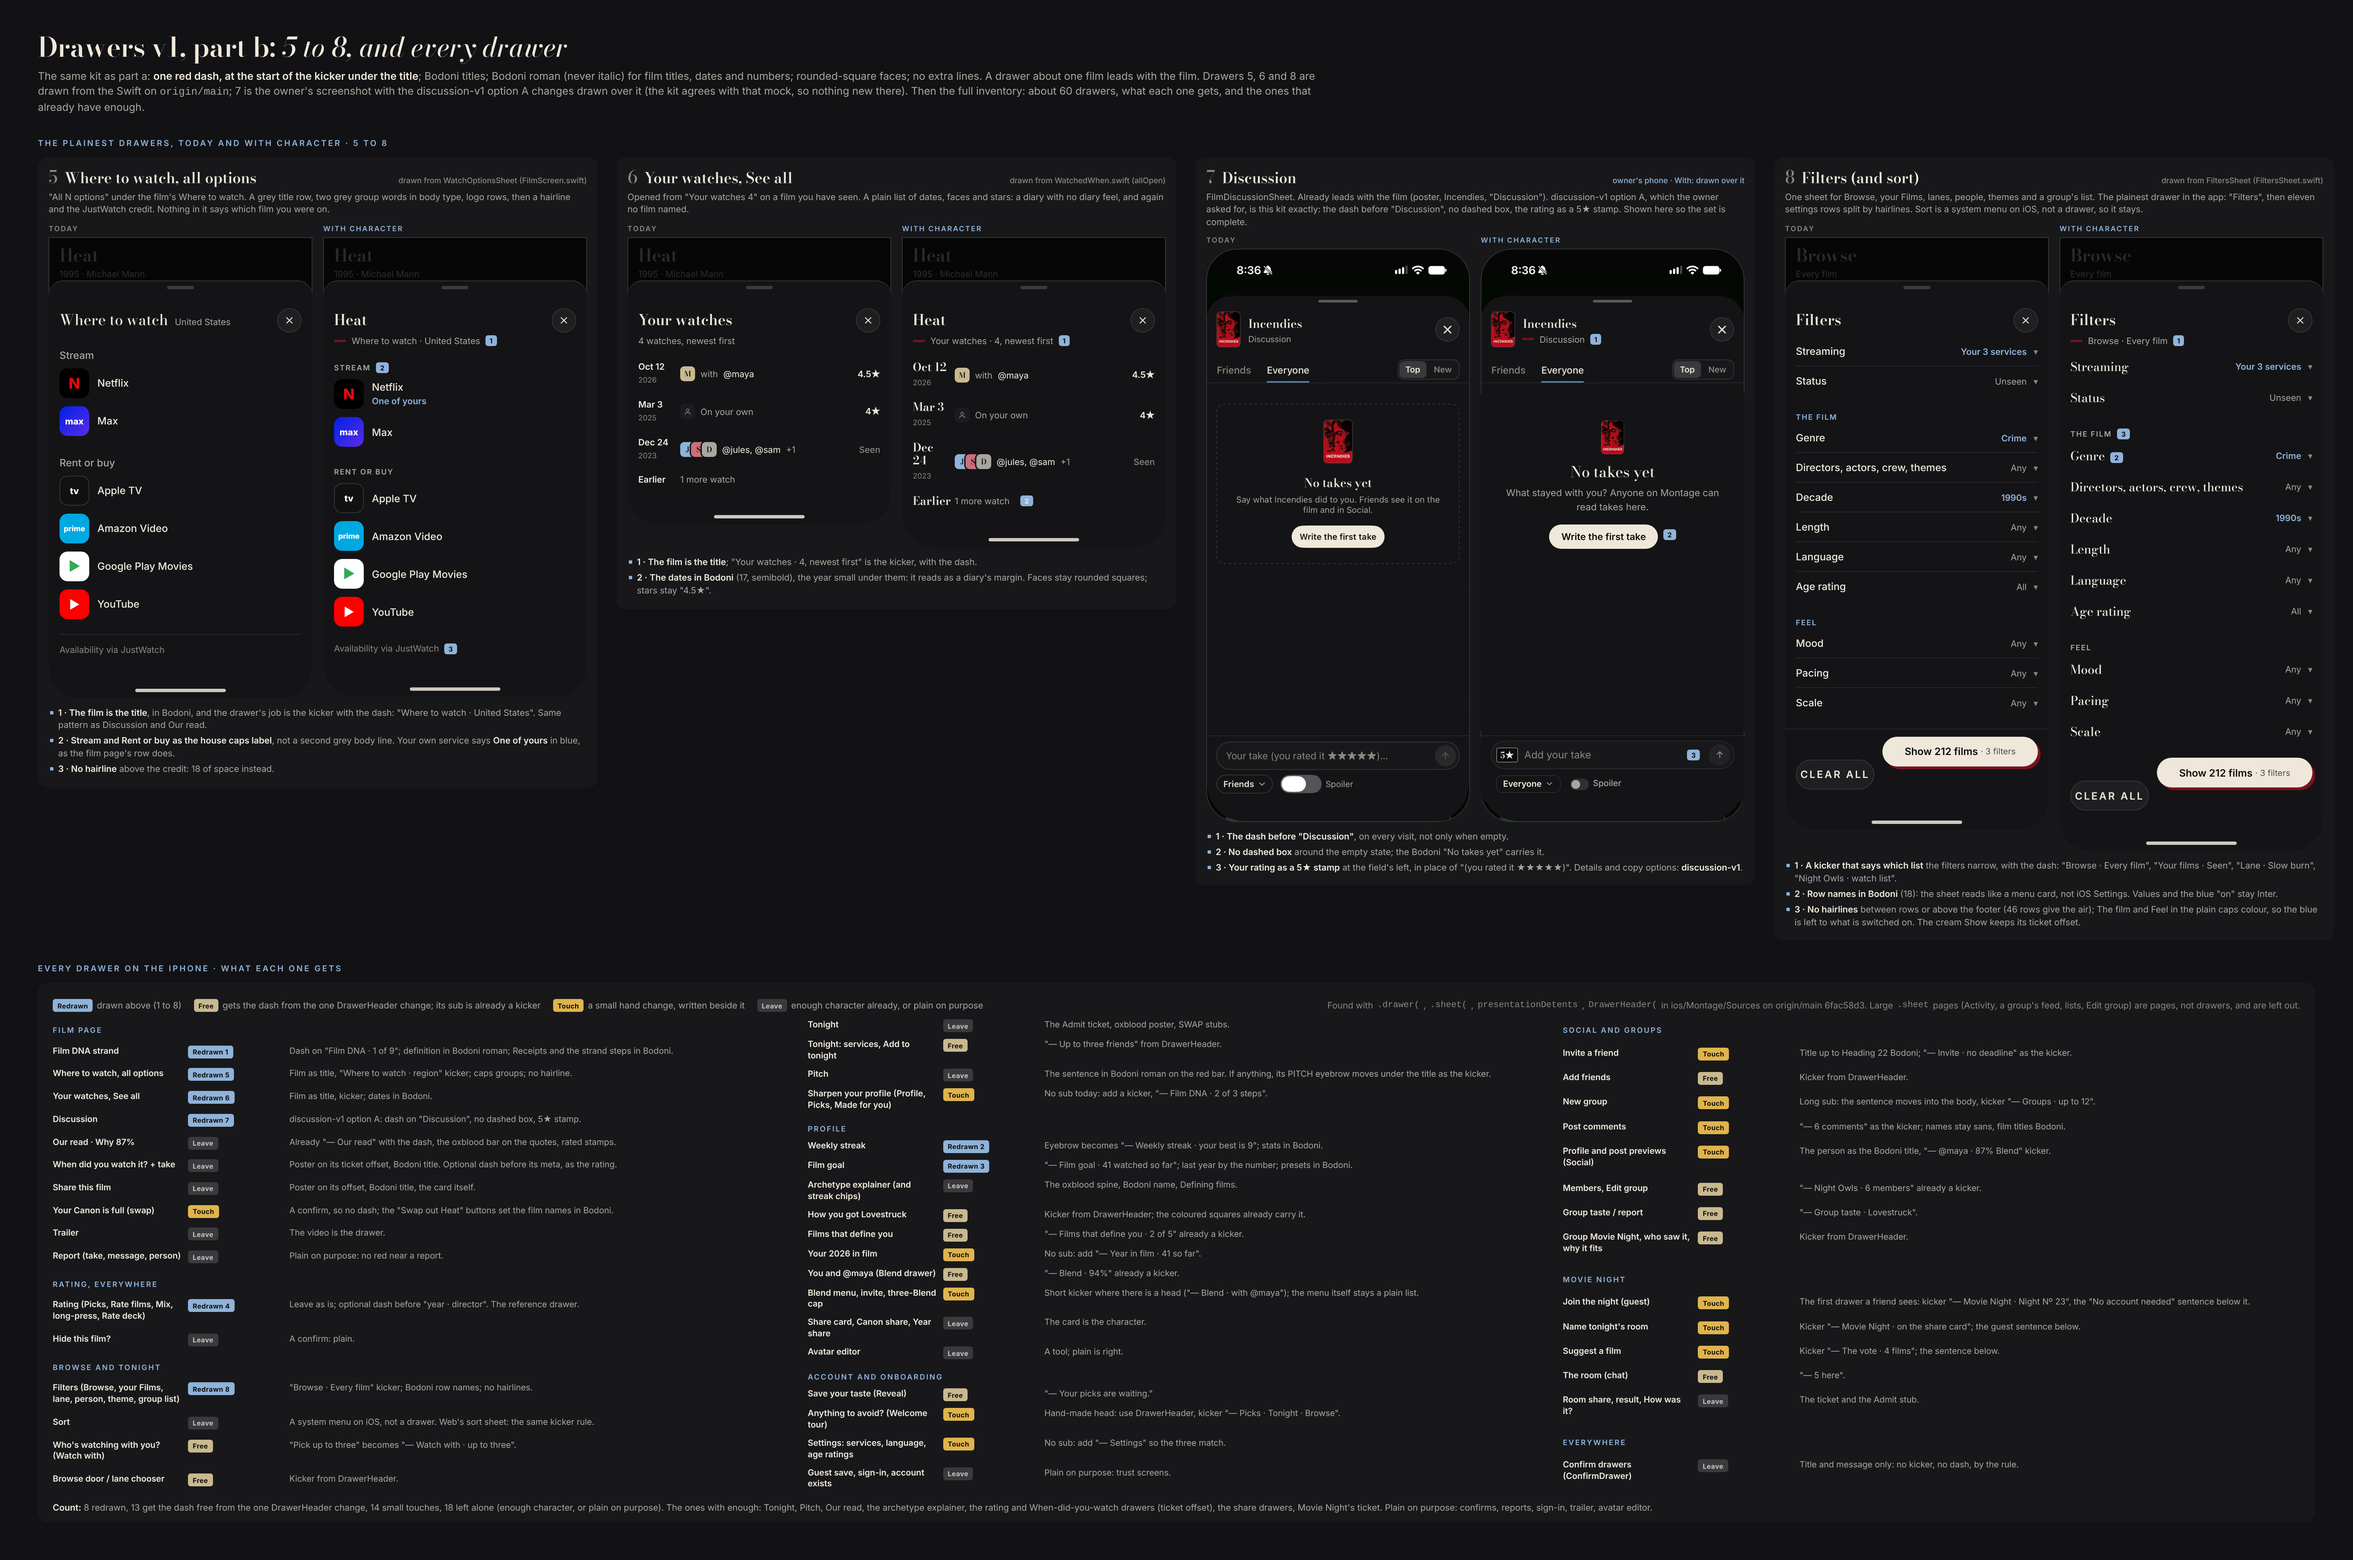
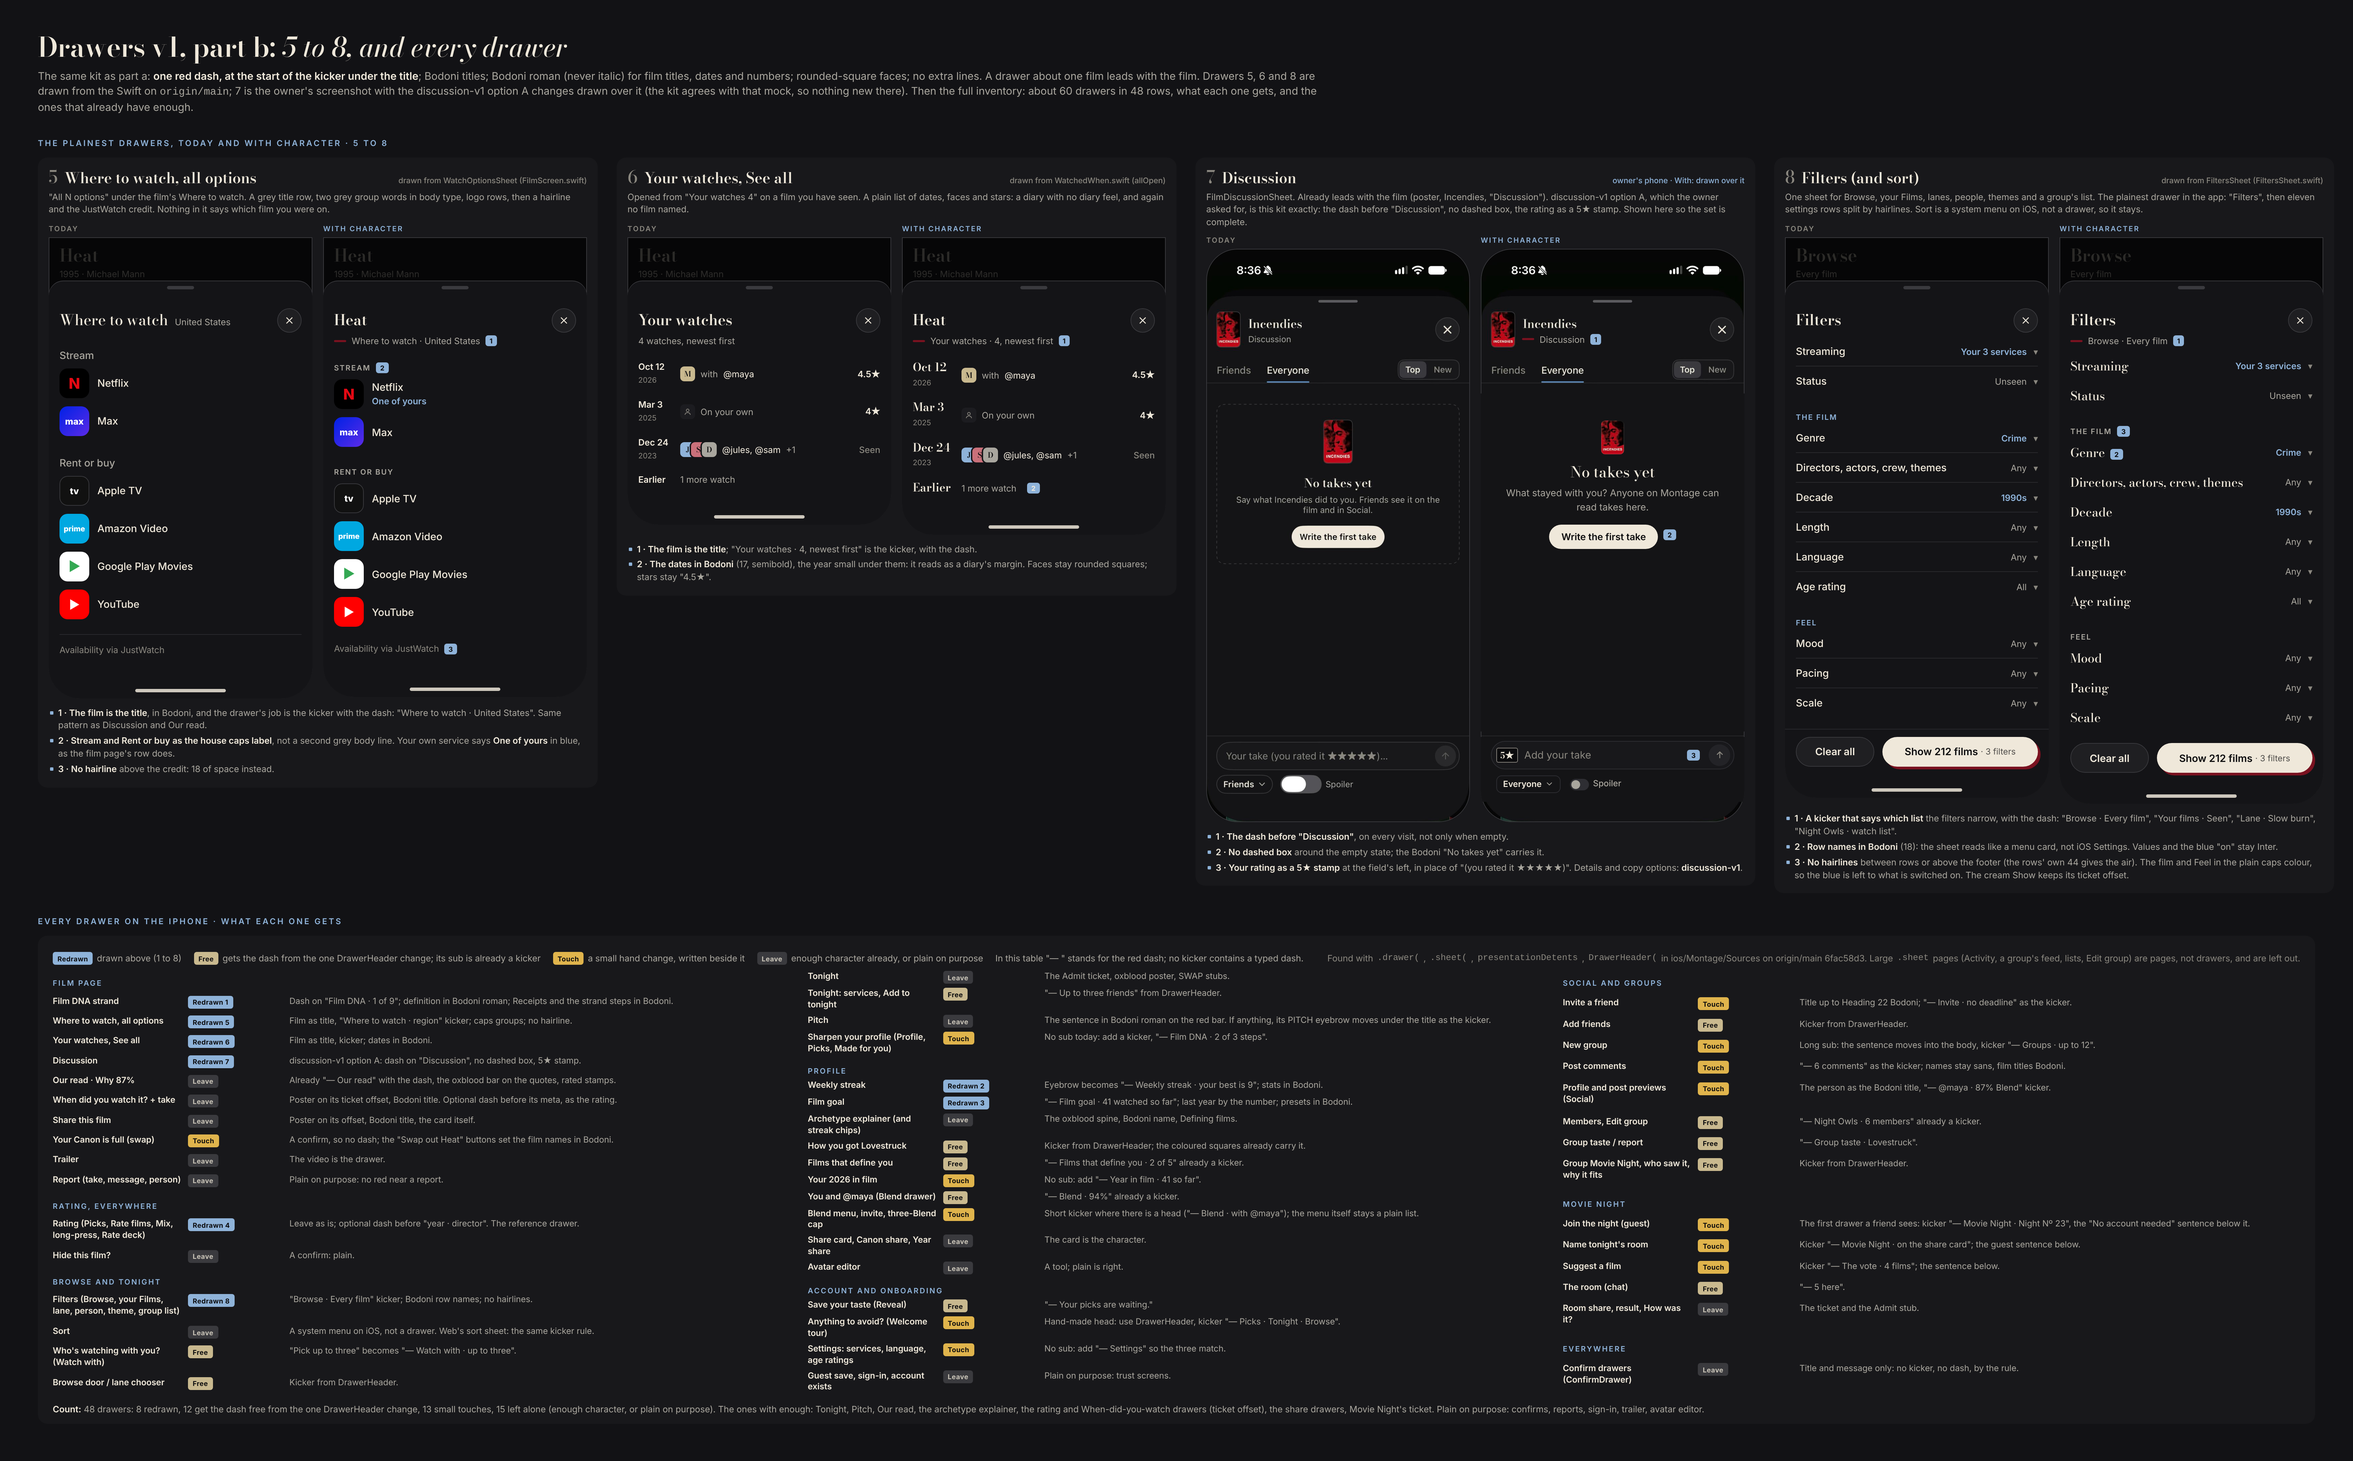
Drawers v1: drawer kit, one red-dash rule (before the kicker under the title), 8 plainest drawers Today vs With character, full drawer inventory
Claude-Session: https://claude.ai/code/session_013WRDCFXH8nihP92apJAVW7

diff --git a/mockups/journeys/drawers-v1-b.html b/mockups/journeys/drawers-v1-b.html
@@ -18,7 +18,7 @@ body{width:3480px}
 .wl .d{width:52px;flex:none}
 .wl .d b{display:block;font:600 13px Inter;color:#EFE8DA}
 .wl .d small{font:400 11px Inter;color:#8A877F}
-.wl .d.bod b{font:600 17px/1.15 'Bodoni Moda'}
+.wl .d.bod{width:62px}.wl .d.bod b{font:600 17px/1.15 'Bodoni Moda';white-space:nowrap}
 .wl .who{display:flex;align-items:center;gap:8px;font:400 13px Inter;color:#A9A69E;flex:1;white-space:nowrap}
 .wl .who em{font-style:normal;color:#EFE8DA}
 .wl .fs{display:inline-flex}.wl .fs .face+.face{margin-left:-6px}
@@ -47,14 +47,14 @@ body{width:3480px}
 .fr .v.on{color:#8FB3D9;font-weight:600}
 .fr .c{font:400 13px Inter;color:#8A877F}
 .fr.ln{box-shadow:inset 0 -1px 0 #2A2A2E}
-.fr.bod{height:46px}
+.fr.bod{height:44px}
 .fr.bod .l{font:500 18px 'Bodoni Moda'}
 .fey{font:600 11px Inter;letter-spacing:1.32px;text-transform:uppercase;color:#8FB3D9;margin-top:24px;margin-bottom:2px}
 .fey.mu{color:#A9A69E}
 .ff{display:flex;gap:12px;padding:12px 16px}
 .ff.ln{box-shadow:inset 0 1px 0 #2A2A2E}
 .ff .btn{height:44px;font-size:15px}
-.ff .sec{width:116px;flex:none}
+.ff .clr{width:116px;flex:none;background:rgba(255,255,255,.05);border:1px solid #3A3A3E;color:#EFE8DA}
 .ff .cream{flex:1;box-shadow:4px 4px 0 #7A1220}
 .ff .cream small{font-weight:400;color:rgba(11,11,13,.7);margin-left:4px}
 /* inventory */
@@ -73,7 +73,7 @@ body{width:3480px}
 </svg>
 
 <h1>Drawers v1, part b: <em style="font-weight:500">5 to 8, and every drawer</em></h1>
-<p class="lede">The same kit as part a: <b>one red dash, at the start of the kicker under the title</b>; Bodoni titles; Bodoni roman (never italic) for film titles, dates and numbers; rounded-square faces; no extra lines. A drawer about one film leads with the film. Drawers 5, 6 and 8 are drawn from the Swift on <code>origin/main</code>; 7 is the owner's screenshot with the discussion-v1 option A changes drawn over it (the kit agrees with that mock, so nothing new there). Then the full inventory: about 60 drawers, what each one gets, and the ones that already have enough.</p>
+<p class="lede">The same kit as part a: <b>one red dash, at the start of the kicker under the title</b>; Bodoni titles; Bodoni roman (never italic) for film titles, dates and numbers; rounded-square faces; no extra lines. A drawer about one film leads with the film. Drawers 5, 6 and 8 are drawn from the Swift on <code>origin/main</code>; 7 is the owner's screenshot with the discussion-v1 option A changes drawn over it (the kit agrees with that mock, so nothing new there). Then the full inventory: about 60 drawers in 48 rows, what each one gets, and the ones that already have enough.</p>
 
 <div class="sec">The plainest drawers, Today and With character · 5 to 8</div>
 <div class="pairs">
@@ -213,7 +213,7 @@ body{width:3480px}
               <div class="fr"><span class="l">Scale</span><span class="v">Any</span><span class="c">▾</span></div>
             </div>
             <div style="height:16px"></div>
-            <div class="ff ln"><span class="btn sec">Clear all</span><span class="btn cream">Show 212 films<small>· 3 filters</small></span></div>
+            <div class="ff ln"><span class="btn clr">Clear all</span><span class="btn cream">Show 212 films<small>· 3 filters</small></span></div>
             <div class="home"></div>
           </div></div></div>
       <div><div class="lab fix">With character</div>
@@ -236,21 +236,21 @@ body{width:3480px}
               <div class="fr bod"><span class="l">Scale</span><span class="v">Any</span><span class="c">▾</span></div>
             </div>
             <div style="height:4px"></div>
-            <div class="ff"><span class="btn sec">Clear all</span><span class="btn cream">Show 212 films<small>· 3 filters</small></span></div>
+            <div class="ff"><span class="btn clr">Clear all</span><span class="btn cream">Show 212 films<small>· 3 filters</small></span></div>
             <div class="home"></div>
           </div></div></div>
     </div>
     <ul>
       <li><b>1 · A kicker that says which list</b> the filters narrow, with the dash: "Browse · Every film", "Your films · Seen", "Lane · Slow burn", "Night Owls · watch list".</li>
       <li><b>2 · Row names in Bodoni</b> (18): the sheet reads like a menu card, not iOS Settings. Values and the blue "on" stay Inter.</li>
-      <li><b>3 · No hairlines</b> between rows or above the footer (46 rows give the air); The film and Feel in the plain caps colour, so the blue is left to what is switched on. The cream Show keeps its ticket offset.</li>
+      <li><b>3 · No hairlines</b> between rows or above the footer (the rows' own 44 gives the air). The film and Feel in the plain caps colour, so the blue is left to what is switched on. The cream Show keeps its ticket offset.</li>
     </ul>
   </div>
 </div>
 
 <div class="sec">Every drawer on the iPhone · what each one gets</div>
 <div class="box" style="padding-bottom:12px">
-  <div class="legend"><span><i class="st r">Redrawn</i> drawn above (1 to 8)</span><span><i class="st f">Free</i> gets the dash from the one DrawerHeader change; its sub is already a kicker</span><span><i class="st t">Touch</i> a small hand change, written beside it</span><span><i class="st l">Leave</i> enough character already, or plain on purpose</span>
+  <div class="legend"><span><i class="st r">Redrawn</i> drawn above (1 to 8)</span><span><i class="st f">Free</i> gets the dash from the one DrawerHeader change; its sub is already a kicker</span><span><i class="st t">Touch</i> a small hand change, written beside it</span><span><i class="st l">Leave</i> enough character already, or plain on purpose</span><span>In this table "— " stands for the red dash; no kicker contains a typed dash.</span>
     <span style="margin-left:auto;color:#8A877F">Found with <code>.drawer(</code>, <code>.sheet(</code>, <code>presentationDetents</code>, <code>DrawerHeader(</code> in ios/Montage/Sources on origin/main 6fac58d3. Large <code>.sheet</code> pages (Activity, a group's feed, lists, Edit group) are pages, not drawers, and are left out.</span></div>
   <div class="invs">
     <table class="inv">

diff --git a/mockups/journeys/drawers-v1-a.html b/mockups/journeys/drawers-v1-a.html
@@ -161,14 +161,14 @@ body{width:3480px}
           <div class="dr" style="padding-bottom:0">
             <div class="dh" style="padding-top:20px"><div><h2>Spectacle</h2><div class="kk" style="position:relative"><i class="rd"></i>Film DNA · 1 of 9 strands<em class="callout" style="position:static;margin-left:8px;font-style:normal">1</em></div></div><div class="x"><svg><use href="#x"/></svg></div></div>
             <div class="pad">
-              <div style="font:500 19px/1.4 'Bodoni Moda';margin-top:12px;position:relative">Scale: the big-screen event, epic size and set pieces.<span class="callout" style="right:-8px;top:-10px">2 roman</span></div>
+              <div style="font:500 19px/1.4 'Bodoni Moda';margin-top:12px;position:relative">Scale: the big-screen event, epic size and set pieces.<em class="callout" style="position:static;font-style:normal;margin-left:8px;vertical-align:3px">2</em></div>
               <div class="caps" style="margin-top:16px">For you</div>
               <div class="read" style="margin-top:4px">One of your clearest pulls: the more a film has of it, the more you tend to love it.</div>
               <div class="caps" style="margin-top:22px">Receipts<em class="callout" style="position:static;margin-left:8px;font-style:normal">3</em></div>
               <div class="strip" style="margin-top:8px;position:relative"><span class="chip bod">The Lord of the Rings: The Return of the King</span><span class="chip bod">The Lord of the Rings</span></div>
               <div class="caps" style="margin-top:22px">More films at this scale</div>
               <div class="strip" style="margin-top:8px"><i class="po" style="width:84px;height:126px;background-image:url(../img/tmdb/evKz85EKouVbIr51zy5fOtpNRPg.jpg)"></i><i class="po" style="width:84px;height:126px;background-image:url(../img/tmdb/qLnfEmPrDjJfPyyddLJPkXmshkp.jpg)"></i><i class="po" style="width:84px;height:126px;background-image:url(../img/tmdb/eCOtqtfvn7mxGl6nfmq4b1exJRc.jpg)"></i><i class="po" style="width:84px;height:126px;background-image:url(../img/tmdb/iYypPT4bhqXfq1b6EnmxvRt6b2Y.jpg)"></i><i class="po" style="width:84px;height:126px;background-image:url(../img/tmdb/1ho0d4LNZw3Y0voeKmSvPSgJOJ2.jpg)"></i></div>
-              <div class="fp bod" style="position:relative"><span><svg><use href="#cl"/></svg>Originality</span><span>Intensity<svg><use href="#cr"/></svg></span><em class="callout" style="position:static;font-style:normal">4</em></div>
+              <div class="fp bod" style="position:relative"><span><svg><use href="#cl"/></svg>Originality<em class="callout" style="position:static;font-style:normal;margin-left:8px">4</em></span><span>Intensity<svg><use href="#cr"/></svg></span></div>
             </div>
             <div class="home"></div>
           </div>

diff --git a/mockups/journeys/drawers-v1.css b/mockups/journeys/drawers-v1.css
@@ -77,7 +77,7 @@ h1{font:600 40px/1.1 'Bodoni Moda';letter-spacing:-.2px}
 
 /* inventory */
 table.inv{width:100%;border-collapse:collapse;font-size:12.5px}
-table.inv td{padding:5px 10px 5px 0;vertical-align:top;color:#A9A69E;line-height:1.35}
+table.inv td{padding:3px 10px 3px 0;vertical-align:top;color:#A9A69E;line-height:1.35}
 table.inv td:first-child{color:#EFE8DA;font-weight:600;width:200px}
 table.inv td:nth-child(2){width:150px}
 table.inv tr.g td{font:600 11px Inter;letter-spacing:1.8px;text-transform:uppercase;color:#8FB3D9;padding-top:14px}
